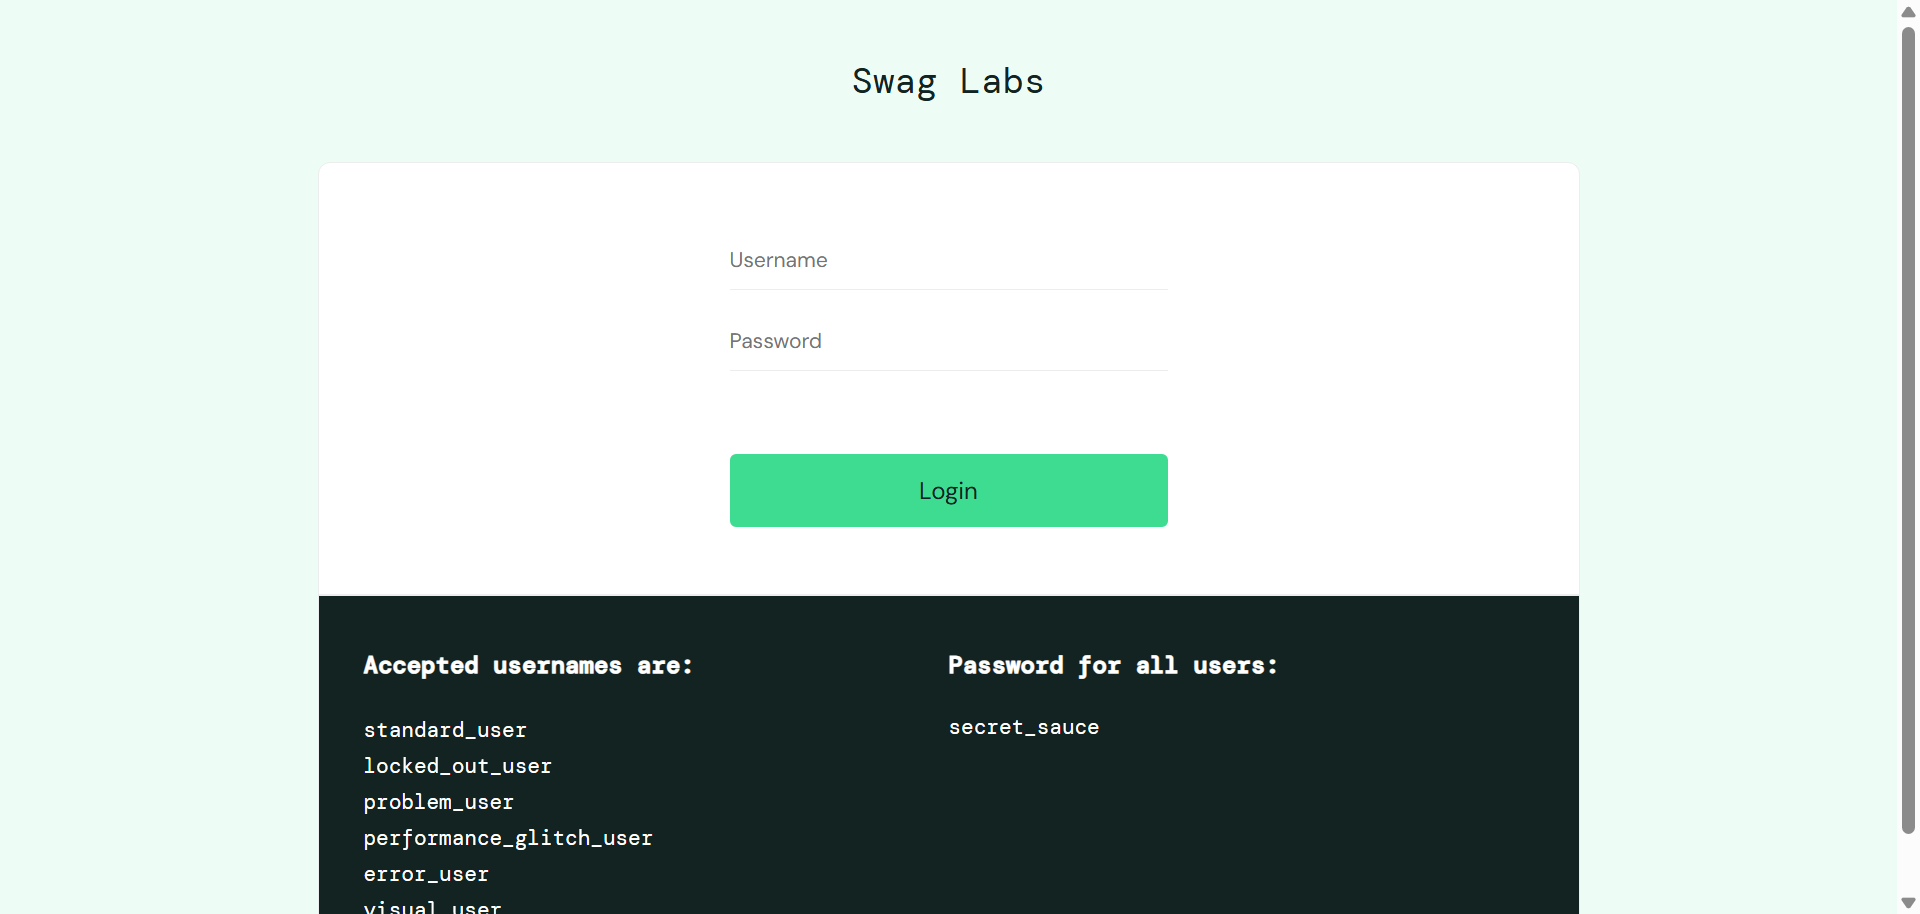
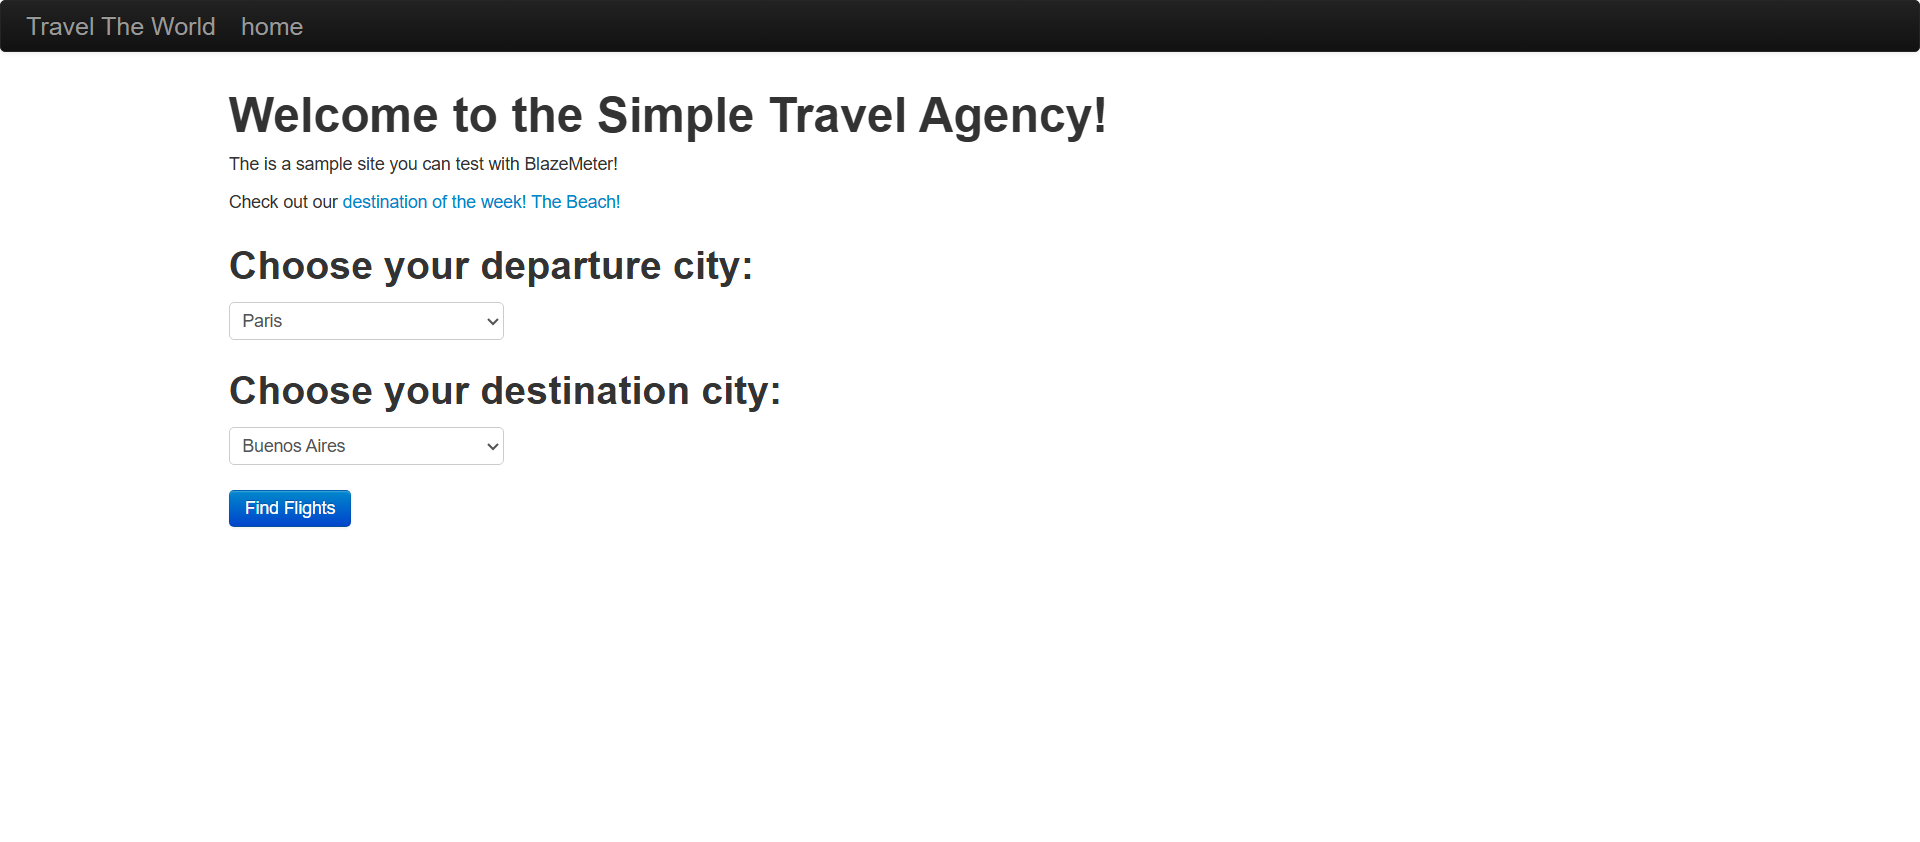
IQEA_UIIntegratedwithGitChanges_22july

diff --git a/api_validator.py b/api_validator.py
@@ -11,6 +11,7 @@ import pandas as pd
 import streamlit as st
 import urllib3
 import stat
+from config.settings_reader import gettoken
 
 urllib3.disable_warnings(urllib3.exceptions.InsecureRequestWarning)
 
@@ -283,8 +284,9 @@ if mode == "Document":
                                                       key="jmx_git_branch")
 
                 col_jgit3, col_jgit4 = st.columns(2)
-                jmx_git_token = col_jgit3.text_input("JMX Git Token (For Private Repos)", type="password",
-                                                     key="jmx_git_token")
+                # jmx_git_token = col_jgit3.text_input("JMX Git Token (For Private Repos)", type="password",
+                #                                      key="jmx_git_token")
+                jmx_git_token = gettoken()
                 git_target_jmx_name = col_jgit4.text_input("Default Target JMX Filename Hint",
                                                            value="VSM_API_TESTING_IQEA.jmx",
                                                            key="git_target_jmx_name")
@@ -439,11 +441,13 @@ if mode == "Document":
             with st.expander("⚙ Execution Cockpit & Live Telemetry", expanded=True):
                 st.subheader("⚙ Execution Configuration Engine")
 
-                execution_profile = st.selectbox(
+                execution_profile = st.radio(
                     "Choose Test Execution Profile",
                     ["Local Dry Run / Smoke Test (Your Machine Only)",
                      "Actual Load Test (Distributed Master-Slave Config)"],
-                    index=0
+                    index=0,
+                    horizontal=True,
+                    key="execution_profile_radio"
                 )
 
                 st.markdown("##### ⚙ Adjust Runtime Thread Group Parameters")
@@ -486,7 +490,7 @@ if mode == "Document":
                         st.error("❌ Execution target configuration missing.")
                     else:
                         # 🔒 CLEANLY HARDCODED AND OBFUSCATED ENGINE EXECUTION PATH
-                        jmeter_path = r"F:\Sona_Performance\apache-jmeter-5.6.3\apache-jmeter-5.6.3\bin\jmeter.bat"
+                        jmeter_path = r"D:\Practice\apache-jmeter-5.6.3\apache-jmeter-5.6.3\bin\jmeter.bat"
 
                         base_name = "api_runtime_run"
                         report_base_dir = os.path.join(current_path, "jmeter_reports", base_name)
@@ -665,6 +669,21 @@ if mode == "Document":
                                     st.error("❌ HTML Report generation failed.")
                                     st.code(report_process.stdout)
                                     st.code(report_process.stderr)
+
+                                # -------------------------------------------------------------
+                                # POST-EXECUTION: AZURE SERVER METRICS LINK
+                                # -------------------------------------------------------------
+                                st.markdown("---")
+                                st.subheader("🖥 Post-Execution Server Telemetry")
+                                st.info("Click below to view the live App Service server metrics on the Azure Portal.")
+                                azure_metrics_url = (
+                                    "https://portal.azure.com/#@tigeranalytics.com/resource/"
+                                    "subscriptions/18bbb40d-2c02-4256-a11a-2aafc355952b/"
+                                    "resourceGroups/quality-engineering-coe/providers/"
+                                    "Microsoft.Web/sites/vsm-api-tiger/appServices"
+                                )
+                                st.link_button("🌐 View Azure Server Metrics", azure_metrics_url, type="primary", use_container_width=True)
+
                             else:
                                 st.error(
                                     "❌ Log data was completely empty due to a hard connection block from the slave machine. No metrics were returned.")

diff --git a/config/settings_reader.py b/config/settings_reader.py
@@ -1,3 +1,4 @@
+import base64
 import configparser
 import os
 from configparser import RawConfigParser
@@ -29,4 +30,7 @@ def get_xpath_key():
     allowed_tags = [x.strip() for x in raw.split(",") if x.strip()]
     print("xpath_allowed_tags",allowed_tags)
     return allowed_tags
+
+def gettoken():
+    return base64.b64decode(config.get('GIT_REPO_DETAILS', 'PAT_TOKEN')).decode("utf-8")
 
